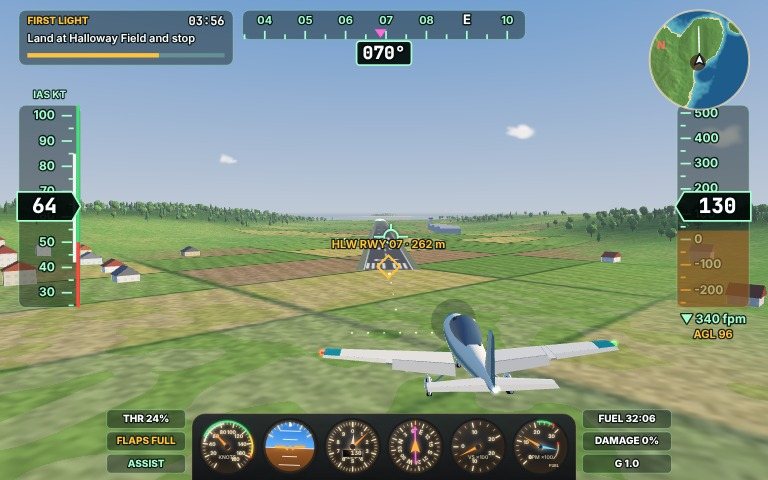
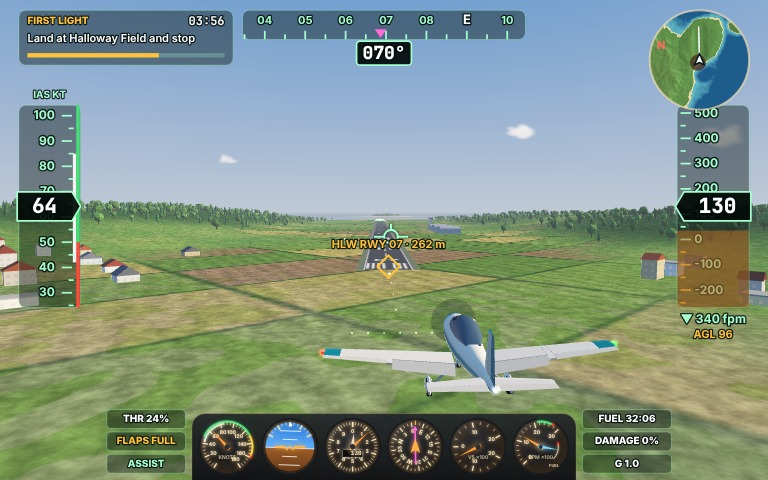
Closer chase camera, grass and forest detail, natural river, feasible Silverrun climb
Claude-Session: https://claude.ai/code/session_013aFgNxawAtzCzATrD7uXbz

diff --git a/game/src/render/shaders.js b/game/src/render/shaders.js
@@ -139,6 +139,10 @@ vec3 terrainAlbedo(vec3 p, vec3 n, vec4 s) {
   c = mix(c, sand, beach * (1.0 - s.z * 0.8));
   c = mix(c, vec3(0.56, 0.53, 0.41), 1.0 - smoothstep(-5.0, 0.2, p.y));
   c = mix(c, c * 0.72, s.w);
+  float tufts = valueNoise(p.xz * 0.23) * 0.6 + valueNoise(p.xz * 1.7) * 0.4;
+  float grassy = (1.0 - rockiness) * (1.0 - snowy) * (1.0 - beach) * smoothstep(0.0, 3.0, p.y);
+  c *= mix(1.0, 0.78 + 0.34 * tufts, grassy);
+  c *= 0.86 + 0.14 * smoothstep(0.0, 0.25, n.y - 0.75) + 0.1 * (n1 - 0.5);
   return c * (0.92 + 0.16 * n3);
 }
 void main() {
@@ -173,7 +177,7 @@ vec3 waveNormal(vec2 p, float t, float dist) {
   float speeds[4] = float[4](0.8, 1.2, 1.7, 2.3);
   for (int i = 0; i < 4; i++) {
     float wavelength = 6.2832 / freqs[i];
-    float fade = 1.0 - smoothstep(wavelength * 4.0, wavelength * 14.0, dist);
+    float fade = 1.0 - smoothstep(wavelength * 2.5, wavelength * 9.0, dist);
     float phase = dot(p, dirs[i]) * freqs[i] + t * speeds[i];
     g += dirs[i] * cos(phase) * freqs[i] * (1.4 / (float(i) + 1.0)) * fade;
   }
@@ -194,14 +198,15 @@ void main() {
   float dist = length(toCamera);
   vec3 v = toCamera / dist;
   vec3 n = waveNormal(vWorld.xz, uTime, dist);
-  vec3 shallow = uFlow > 0.5 ? toLinear(vec3(0.16, 0.42, 0.42)) : toLinear(vec3(0.22, 0.70, 0.67));
-  vec3 deep = uFlow > 0.5 ? toLinear(vec3(0.05, 0.2, 0.24)) : toLinear(vec3(0.03, 0.19, 0.33));
+  vec3 shallow = uFlow > 0.5 ? toLinear(vec3(0.3, 0.62, 0.6)) : toLinear(vec3(0.22, 0.70, 0.67));
+  vec3 deep = uFlow > 0.5 ? toLinear(vec3(0.12, 0.38, 0.45)) : toLinear(vec3(0.03, 0.19, 0.33));
   vec3 body = mix(shallow, deep, smoothstep(0.5, uFlow > 0.5 ? 4.0 : 30.0, depth));
   vec3 lit = body * (uSkyAmbient * 0.95 + uSunColor * max(uSunDir.y, 0.05) * 0.6);
   float fresnel = 0.02 + 0.98 * pow(1.0 - max(dot(n, v), 0.0), 5.0);
   vec3 r = reflect(-v, n);
   r.y = abs(r.y);
-  vec3 color = mix(lit, skyRadiance(r), fresnel * mix(0.9, 0.55, smoothstep(800.0, 6000.0, dist)));
+  vec3 color = mix(lit, skyRadiance(r), fresnel * mix(0.9, 0.55, smoothstep(800.0, 6000.0, dist)) * (uFlow > 0.5 ? 0.6 : 1.0));
+  if (uFlow > 0.5) color *= 0.85 + 0.3 * valueNoise(vWorld.xz * vec2(0.08, 0.3) + uTime * 0.6);
   color += uSunColor * pow(max(dot(r, uSunDir), 0.0), 700.0) * 10.0;
   float foamBand = 1.0 - smoothstep(0.0, 2.4, depth);
   float foam = foamBand * smoothstep(0.45, 0.8, valueNoise(vWorld.xz * 0.16 + uTime * 0.25) * 0.55 + 0.45 * sin(depth * 4.5 - uTime * 1.5));

diff --git a/game/src/world/vegetation.js b/game/src/world/vegetation.js
@@ -27,7 +27,7 @@ function riverClearance(terrain, x, z) {
   const course = terrain.river;
   let best = Infinity;
   for (let k = 0; k < course.length; k += 3) best = Math.min(best, Math.hypot(x - course[k].x, z - course[k].z) - course[k].halfWidth);
-  return smoothstep(18, 70, best);
+  return smoothstep(8, 40, best);
 }
 
 /** Forest density in [0, 1] at a point: patches on mid-slopes, thinning with height and steepness. */
@@ -38,7 +38,7 @@ export function createForestField(terrain, seed) {
     if (h < 3.5 || h > 780) return 0;
     const slope = terrain.slopeAt(x, z);
     const patches = fractalNoise(noise, x / 1100, z / 1100, 4) * 0.5 + 0.5;
-    let density = smoothstep(0.45, 0.59, patches + smoothstep(120, 480, h) * 0.12);
+    let density = smoothstep(0.42, 0.56, patches + smoothstep(120, 480, h) * 0.12) * 0.85 + 0.15 * smoothstep(0.3, 0.42, patches);
     density *= 1 - smoothstep(560, 780, h);
     density *= 1 - smoothstep(0.75, 1.1, slope);
     density *= smoothstep(3.5, 9, h);

diff --git a/game/src/ui/screens.js b/game/src/ui/screens.js
@@ -19,7 +19,7 @@ function describeWind(w) {
 
 function describeStep(step) {
   if (step.type === 'takeoff') return 'Take off from the runway';
-  if (step.type === 'rings') return { harbour: 'Fly the seven harbour rings', silverrun: 'Fly the twelve Silverrun gates', lantern: 'Fly the seven lantern rings' }[step.course];
+  if (step.type === 'rings') return { harbour: 'Fly the seven harbour rings', silverrun: 'Fly the ten Silverrun gates', lantern: 'Fly the seven lantern rings' }[step.course];
   if (step.type === 'fly-to') return 'Navigate to Ostmere Strip';
   if (step.type === 'land') return `Land at ${step.airfield === 'ostmere' ? 'Ostmere Strip' : 'Halloway Field'} and stop on the runway`;
   return 'Explore, then land anywhere to log the flight';

diff --git a/game/src/render/camera-rig.js b/game/src/render/camera-rig.js
@@ -57,8 +57,8 @@ export function createCameraRig() {
       const ease = 1 - Math.exp(-dt * 3.2);
       rig.lookDir = normalize(mix(rig.lookDir, wanted, ease));
       rig.upDir = normalize(mix(rig.upDir, normalize(mix([0, 1, 0], planeUp, 0.4)), 1 - Math.exp(-dt * 2.5)));
-      eye = add(sub(plane.position, scale(rig.lookDir, 13.5)), scale(rig.upDir, 3.4));
-      target = add(plane.position, add(scale(rig.lookDir, 26), scale(rig.upDir, 1.6)));
+      eye = add(sub(plane.position, scale(rig.lookDir, 11)), scale(rig.upDir, 2.9));
+      target = add(plane.position, add(scale(rig.lookDir, 26), scale(rig.upDir, 1.9)));
       up = rig.upDir;
     }
     const ground = Math.max(terrain.heightAt(eye[0], eye[2]), 0) + 1.6;

diff --git a/game/src/missions/mission-catalog.js b/game/src/missions/mission-catalog.js
@@ -16,7 +16,7 @@ export const MISSIONS = [
   {
     id: 'silverrun-gates',
     title: 'Silverrun Gates',
-    tagline: 'Twelve gates up the river canyon, against the clock',
+    tagline: 'Ten gates up the river canyon, against the clock',
     brief: 'Race the Silverrun from its mouth to the Cairnhold foothills. The gates follow the river through every bend and climb with the valley. Carry speed, keep the turns tight, and do not touch the slopes.',
     sky: 'golden', wind: { from: 200, knots: 4, gust: 3 }, fuel: 0.3,
     start: { air: { x: 2300, z: 4300, altitude: 130, heading: 320, speed: 52 } },

diff --git a/game/src/world/sky-presets.js b/game/src/world/sky-presets.js
@@ -26,7 +26,7 @@ const PRESETS = {
     label: 'Golden hour',
     sun: [150, 17], sunColor: [1.0, 0.76, 0.48], sunPower: 2.8,
     zenith: [0.25, 0.44, 0.78], horizon: [0.98, 0.82, 0.64], fog: [0.88, 0.78, 0.68],
-    groundAmbient: [0.34, 0.3, 0.25], fogDensity: 0.00011, fogFalloff: 0.0012, exposure: 1.55, night: 0, clouds: 0.55,
+    groundAmbient: [0.34, 0.3, 0.25], fogDensity: 0.00011, fogFalloff: 0.0012, exposure: 1.55, night: 0, clouds: 0.75,
   },
   dusk: {
     label: 'Dusk',

diff --git a/game/src/world/archipelago.js b/game/src/world/archipelago.js
@@ -85,7 +85,7 @@ function carveRiver(heights, course, sample) {
     lowest = Math.min(lowest, ground);
     const profile = lerp(spring - 18, -0.35, Math.pow(point.s, 0.75));
     point.surface = Math.max(-0.35, Math.min(profile, lowest - 5));
-    point.halfWidth = lerp(5, 30, Math.pow(point.s, 0.8));
+    point.halfWidth = lerp(4, 18, Math.pow(point.s, 0.8));
   }
   for (let k = 0; k < course.length - 1; k++) {
     const a = course[k];

diff --git a/game/src/missions/ring-courses.js b/game/src/missions/ring-courses.js
@@ -40,7 +40,7 @@ export function buildRingCourse(name, world) {
   }
   if (name === 'silverrun') {
     const river = world.terrain.river;
-    const picks = [118, 106, 95, 84, 74, 64, 54, 44, 34, 24, 14, 4];
+    const picks = [118, 106, 95, 84, 74, 64, 54, 44, 34, 24];
     const pts = picks.map((k, i) => {
       const p = river[Math.min(river.length - 1, k)];
       return [p.x, Math.max(p.surface, 0) + 38 + i * 6, p.z, 15];

diff --git a/game/src/render/water-renderer.js b/game/src/render/water-renderer.js
@@ -5,7 +5,8 @@ import { WATER_VERTEX, WATER_FRAGMENT } from './shaders.js';
 
 const SEA_REACH = 45000;
 
-function riverRibbon(course) {
+function riverRibbon(fullCourse) {
+  const course = fullCourse.filter((p) => p.s > 0.16);
   const positions = [];
   const indices = [];
   for (let k = 0; k < course.length; k++) {
